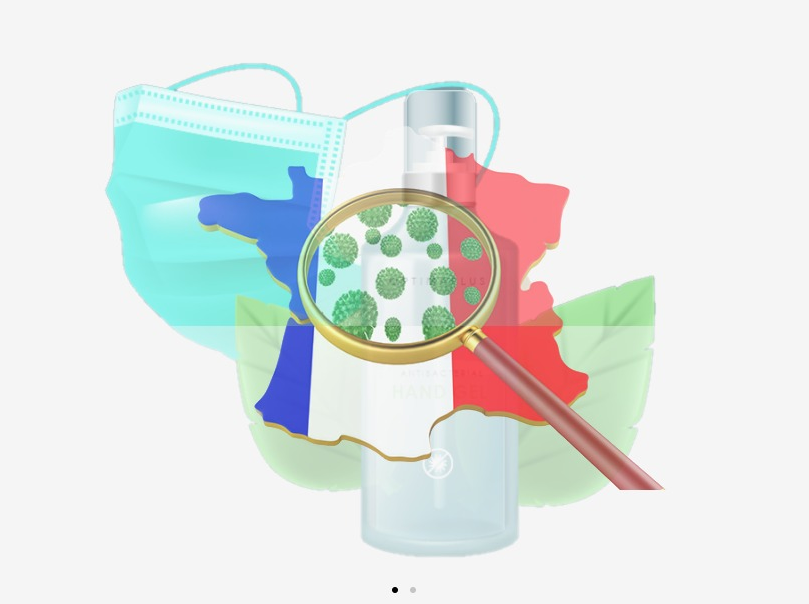
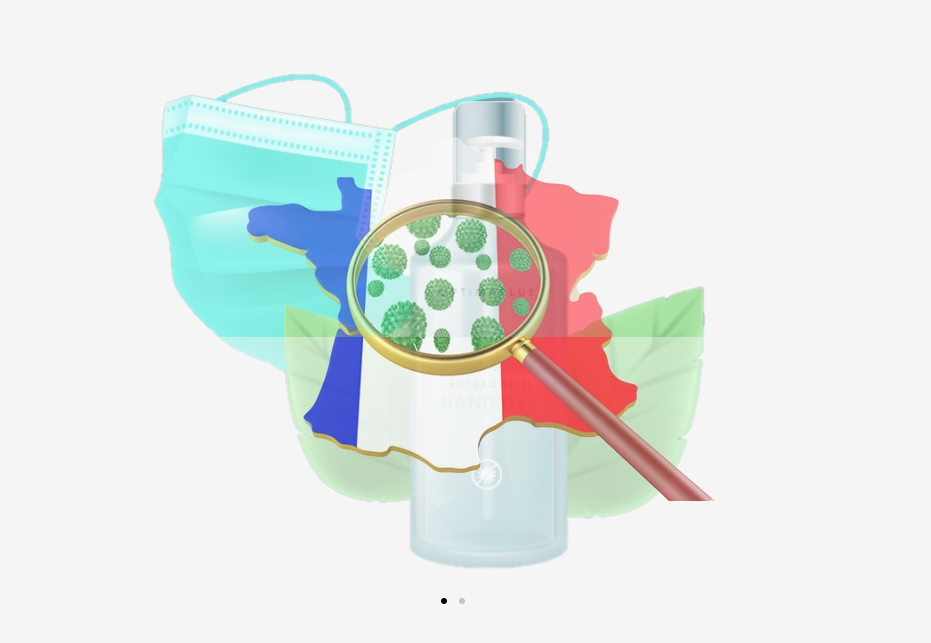
ajout fichier

Changed region(s): [[0.1236, 0.0894, 0.8344, 0.9238]]

diff --git a/index.html b/index.html
@@ -14,11 +14,11 @@
             <div class="nav-wrapper">
                 <nav>
                     <div class="row">
-                        <div class="col l2 m1" id="my-col"></div>
-                        <div class="col l2 m2 s2" >
-                            <img class="logo-container"  src="img/photo18.PNG" alt="">
+                        <div class="col l2 m0" id="my-col"></div>
+                        <div class="col l2 m2 s3" >
+                            <img class="logo-container responsive-img"  src="img/photo18.PNG" alt="">
                         </div>
-                        <div class="col s2" id="y"></div>
+                        <div class="col s1" id="y"></div>
 
                         <div class="col l5 m8 s6">
                             <div class="liens" >
@@ -31,7 +31,7 @@
                         </div>
             
                         <div class="col l1 m1 s1 left">
-                            <input type="reach" de class="green" placeholder="Rechercher...">
+                            <input type="reach"  class="green" placeholder="Rechercher...">
                     </div>
 
                 </div>
@@ -45,16 +45,16 @@
 
     <section>
         <div class="row center" >
-            <div class="col l2 m2" id="my-col"></div>
-            <div class="col l4 m4 s11">
-                <img src="img/photo 2.PNG" ><br><br>
+            <div class="col l2 m1" id="my-col"></div>
+            <div class="col l4 m5 s11">
+                <img class="responsive-img" src="img/photo 2.PNG" ><br><br>
                 <form action="submet" class="center-align">
                     <a class="btn modal-trigger blue" href="#">En savoir plus...</a>
                 </form>
             </div>
 
-            <div class="col l4 m4 s11">
-                <img src="img/photo 3.PNG" alt="">
+            <div class="col l4 m6 s10">
+                <img class="reponsive-img" src="img/photo 3.PNG" alt="">
             </div>
 
             <div class="col l2" id="my-col"></div>
@@ -70,31 +70,31 @@
         <section>
 
             <div class="row ">
-                <div class="col l3 m3 s3" id="my-col"></div>
+                <div class="col l3 m3 s1" id="my-col"></div>
 
-                <div class="col l3 m3 s3">
-                    <img src="img/photo 4.PNG" alt="">
+                <div class="col l3 m3 s5">
+                    <img class="responsive-img" src="img/photo 4.PNG" alt="">
                 </div>
 
-                <div class="col l3 m3 s3">
-                    <img src="img/photo 5.PNG" alt="">
+                <div class="col l3 m3 s5">
+                    <img class="responsive-img" src="img/photo 5.PNG" alt="">
                 </div>
 
-                <div class="col l3 s3" id="my-col"></div>
+                <div class="col l3 s1" id="my-col"></div>
             </div>
 
             <div class="row ">
-                <div class="col l3 m3 s3" id="my-col"></div>
+                <div class="col l3 m3 s1" id="my-col"></div>
 
-                <div class="col l3 m3 s3">
-                    <img src="img/photo 6.PNG" alt="">
+                <div class="col l3 m3 s5">
+                    <img class="responsive-img" src="img/photo 6.PNG" alt="">
                 </div>
 
-                <div class="col l3 m3 s3">
-                    <img src="img/photo 7.PNG" alt="">
+                <div class="col l3 m3 s5">
+                    <img class="responsive-img" src="img/photo 7.PNG" alt="">
                 </div>
 
-                <div class="col l3 s3" id="my-col"></div>
+                <div class="col l3 s1" id="my-col"></div>
             </div>
 
         </section>
@@ -107,15 +107,15 @@
         <h4 class="center">ANTI COVID<b>19</b></h4>
 
         <div class="row">
-            <div class="col l12 m12 center">
-                <img src="img/photo 8.PNG" alt="">
+            <div class="col l12 m12 s12 center">
+                <img class="responsive-img" src="img/photo 8.PNG" alt="">
             </div>
         </div>
 
         <div class="row">
             <div class="col l1"></div>
                 
-            <div class="col l4 m3 s5" style="background-image: url(img/photo\ 16.jpg);">
+            <div  class="col l4 m3 s4" style="background-image: url(img/photo\ 16.jpg);">
                 <a href="#">Tunnel de desinfection integral</a>
             </div>
 
@@ -180,13 +180,13 @@
                 </div>
 
                 <div class="col l5 m4 s12">
-                    <img class="i9" src="img/photo 9.PNG" alt="">
+                    <img class="responsive-img" class="i9" src="img/photo 9.PNG" alt="">
                 </div>
 
             </div>
         </section>
 
-        <div class="center"><img style="" src="img/photo 10.png" ></div>
+        <div class=" center "><img class="responsive-img" src="img/photo 10.png" ></div>
         
 
         <section>
@@ -194,8 +194,8 @@
                 <div class="col l1 " id="my-col"></div>
 
                 <div class="col l2 m4 s12">
-                    <img src="img/photo 11.PNG" alt=""><br><br>
-                    <img class="q" src="img/photo 12.PNG" alt="">
+                    <img class="responsive-img" src="img/photo 11.PNG" alt=""><br><br>
+                    <img class="responsive-img" src="img/photo 12.PNG" alt="">
                 </div>
                 <div class="col l3 s1" id="s"></div>
 
@@ -259,13 +259,13 @@
                 </div>
 
                 <div class="col l4 m3 s4">
-                    <a href="#"><img src="img/photo 13.PNG" alt=""></a>
+                    <a href="#"><img class="responsive-img" src="img/photo 13.PNG" alt=""></a>
                 </div>
 
                 <div class="col m1" id="n"></div>
                 <div class="col l4 m3 s3">
                     <h5 class="green-text center">Suivez-Nous:</h5>
-                    <center><img src="img/photo 14.PNG" alt=""></center>
+                    <center><img class="responsive-img" src="img/photo 14.PNG" alt=""></center>
                 </div>
             </div>
         </div>

diff --git a/style.css b/style.css
@@ -41,9 +41,6 @@ header{
     display: flex;
     flex-wrap: wrap;
 }
-
-
-
 .i9{
     height: 350px;
     margin-top: 74px;
@@ -59,9 +56,7 @@ footer{
 }
 @media screen and (max-width:1440px){
 
-    header .l2 img{
-        width: 200px;
-    }
+
     header #my-col{
         display:grid;
     }
@@ -77,27 +72,11 @@ footer{
     .nav-wrapper input{
         font-size: 20px;
     }
-    .row .m3 img {
-        width: 230px;
-        height: 200px;
-    }
-
-    .row img {
-        width: 500px;
-    }
-
-    .center img{
-        max-width: 1000px;
-    }
     #s{
         display: block
     }
     .l6 h3 {
         font-size: 30px;
-    }
-    footer .row .l4 img {
-        width: 250px;
-        height: auto;
     }
     p{
         font-size: smaller;
@@ -119,9 +98,7 @@ footer{
     }
 }
 @media screen and (max-width:768px) {
-    header .l2 img{
-        width: 120px;
-    }
+
     .liens{
         font-size: 15px;
     }
@@ -144,23 +121,8 @@ footer{
     #s{
         display: none;
     }
-    .m12 img{
-        max-width:650px ;
-    }
-    .center img{
-        width: 760px;
-    }
-
-    .row img {
-        width: 250px;
-        
-    }
     .m10{
         margin-left: 200px;
-    }
-
-    footer .m4 img{
-        width: 150px;   
     }
     
     #n{
@@ -168,11 +130,6 @@ footer{
     }
     #v{
         display: none;
-    }
-
-    footer .row .m3 img{
-        width: 180px;
-        height: auto;
     }
 
 }
@@ -187,18 +144,13 @@ footer{
     #y{
         display: block;
     }
-    .center img{
-        width: 449px;
-    }
     body h1{
         font-size: 25px;
     }
     header h2{
         font-size: 25px;
     }
-    .center .s11 img{
-        width: 415px;
-    }
+
     .center .m2{
         display: none;
     }
@@ -208,12 +160,5 @@ footer{
     header .nav-wrapper .s2 input{
         font-size: 15px;
     }
-    footer .row .m3 img{
-        width: 120px;
-    }
-    footer .row .s3 img{
-        width: 100px;
-    }
-    
 }
 
